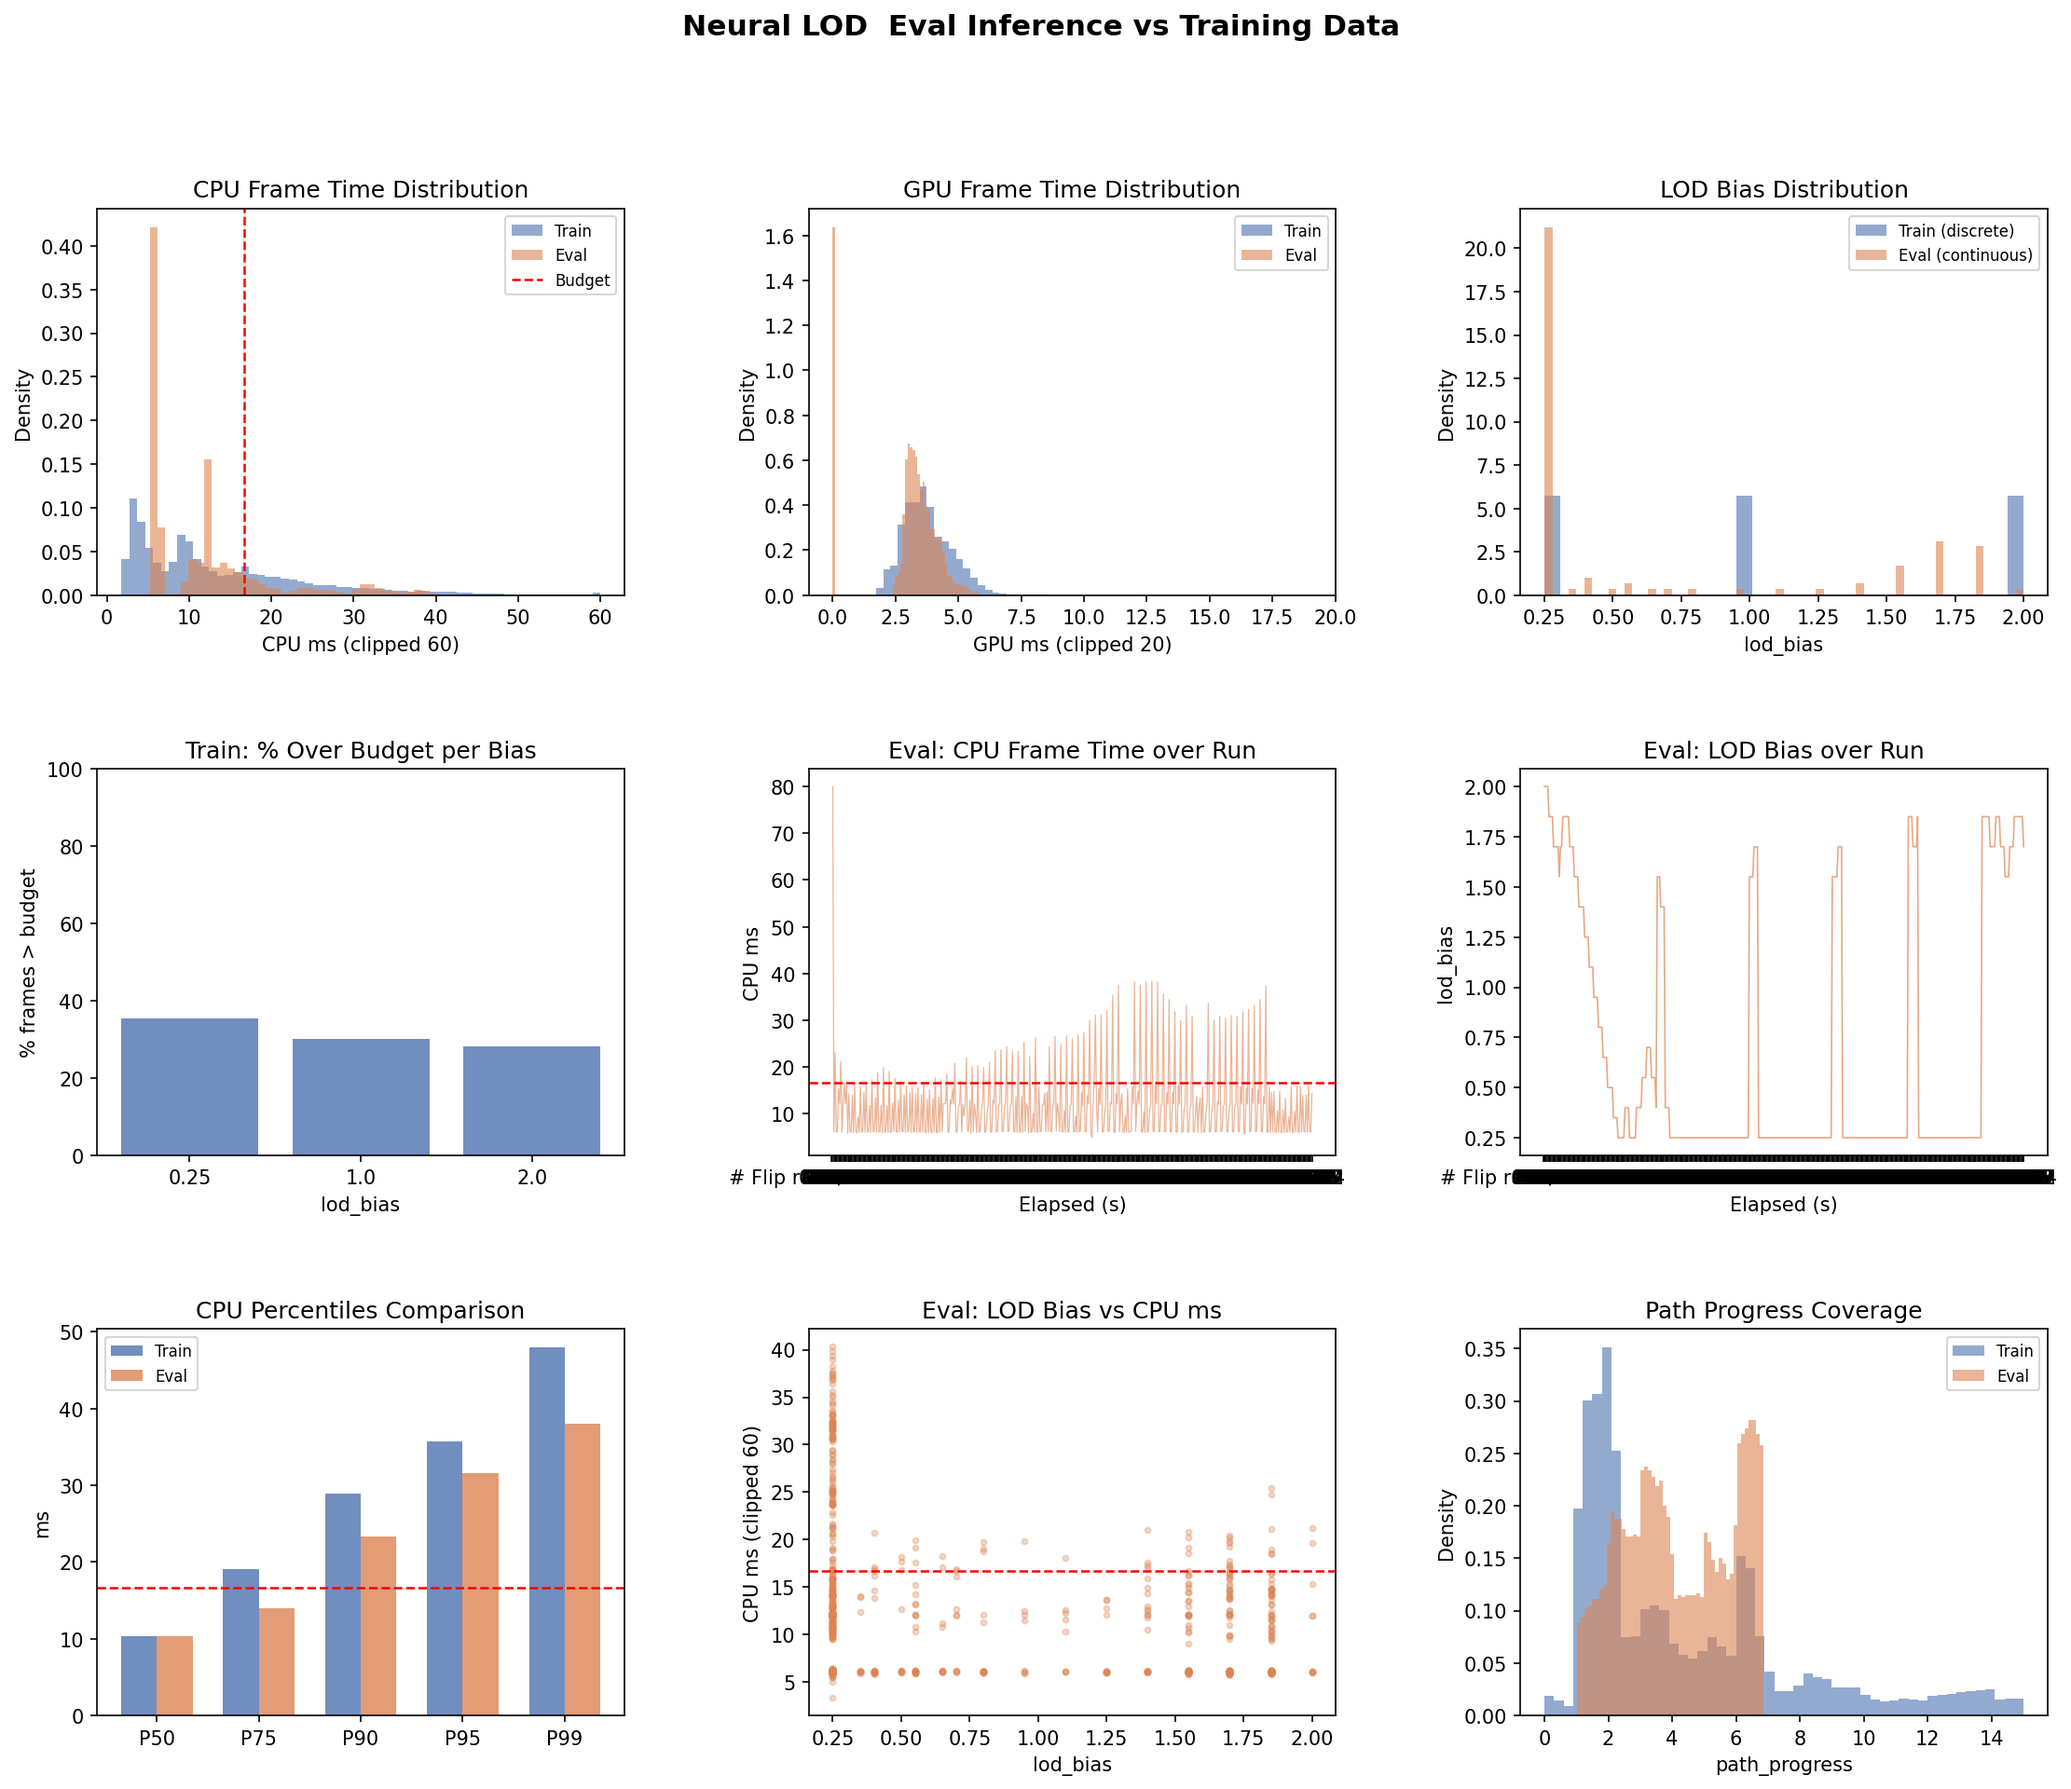
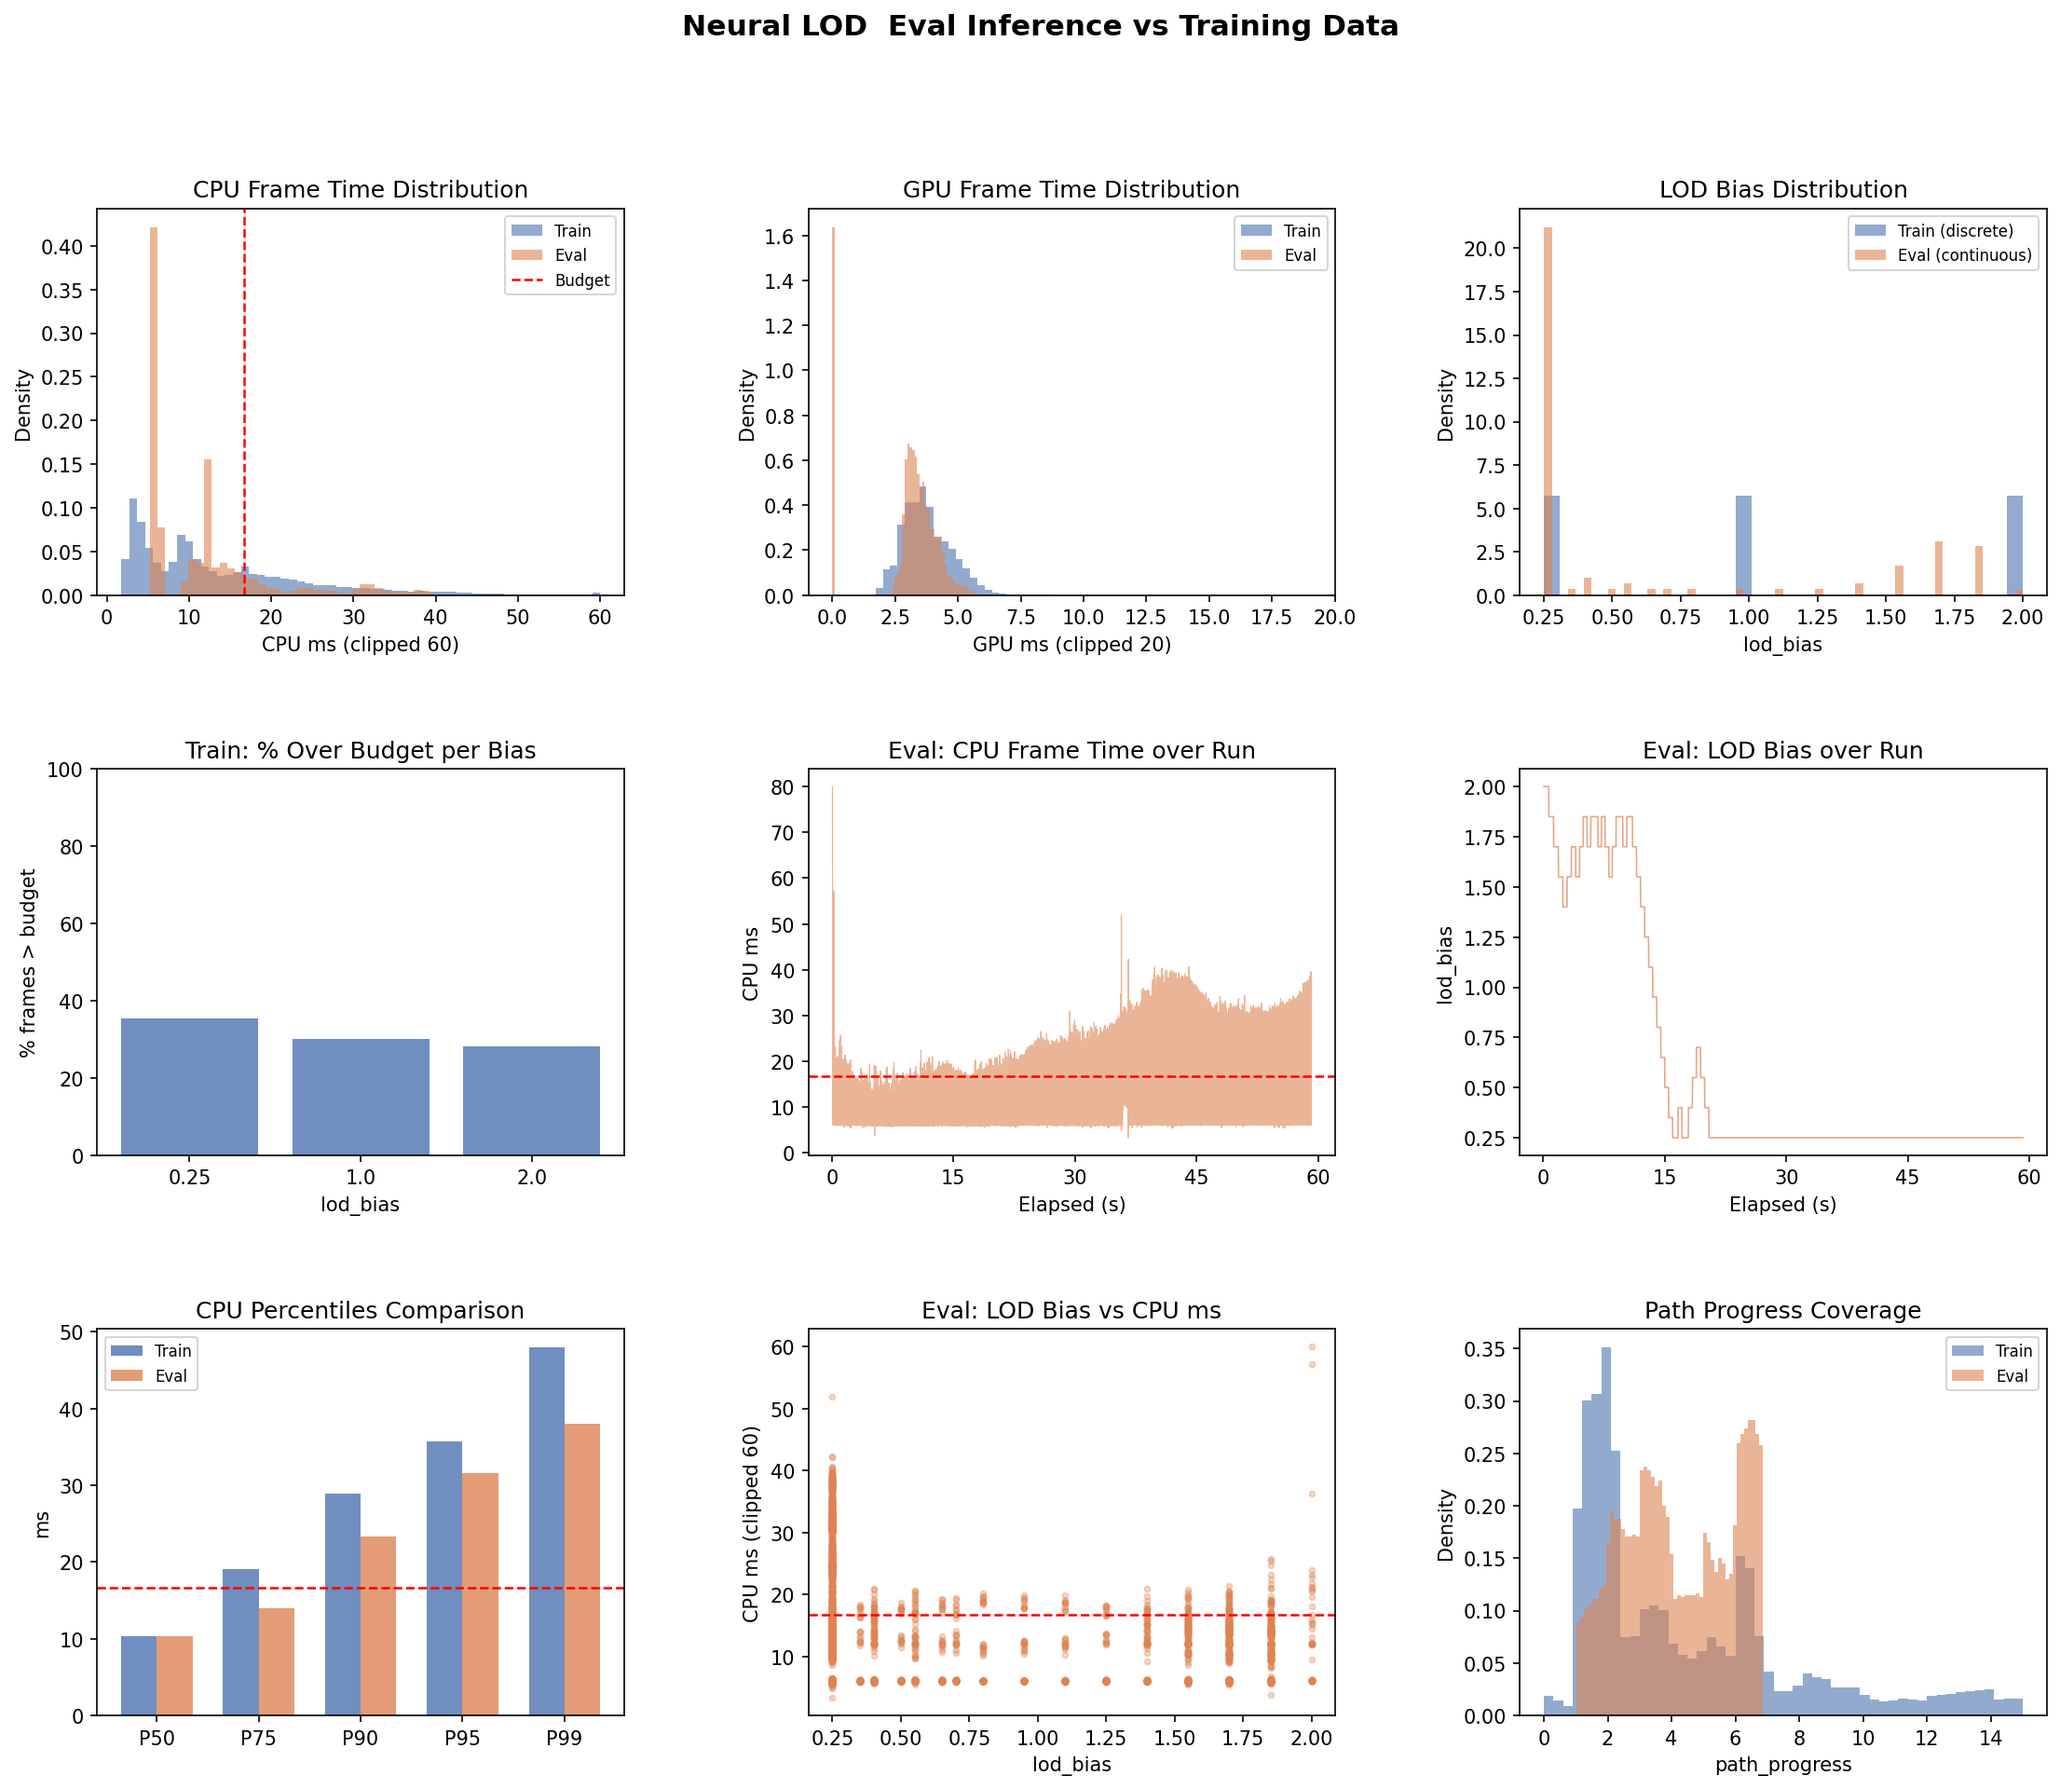
Skip merge when merged file exists; fix eval plots
Skip the merge stage when TRAINING_MERGED already exists during an 'all' run (print a skip message and advise using --stage merge to force). Improve eval CSV handling by ignoring comment lines, coercing elapsed_s to numeric and dropping invalid rows, and printing basic diagnostics. Update plotting: remove downsampling, plot full eval series and scatter, add MaxNLocator for x axes, and tweak saved-plot messaging. Change get_latest_eval_csv to return matches[0] instead of matches[-1]. Updated generated compare plot image.

diff --git a/ml_pipeline/scripts/compare_eval_vs_train.py b/ml_pipeline/scripts/compare_eval_vs_train.py
@@ -7,6 +7,7 @@ import pandas as pd
 import numpy as np
 import matplotlib.pyplot as plt
 import matplotlib.gridspec as gridspec
+from matplotlib.ticker import MaxNLocator
 from config import (
     TRAINING_LABELED, EVAL_COMPARE_FIG,
     TARGET_FRAME_MS, get_latest_eval_csv
@@ -23,7 +24,11 @@ def run(save_individual=False):
     print(f"Using eval file : {eval_path.name}")
 
     train = pd.read_csv(TRAINING_LABELED)
-    eval_ = pd.read_csv(eval_path)
+    eval_ = pd.read_csv(eval_path, comment='#')
+    eval_ = eval_[~eval_["elapsed_s"].astype(str).str.startswith('#')]
+    eval_["elapsed_s"] = pd.to_numeric(eval_["elapsed_s"], errors="coerce")
+    eval_ = eval_.dropna(subset=["elapsed_s"])
+    print(f"Eval rows after cleaning : {len(eval_)}")
 
     print(f"Train rows : {len(train)}")
     print(f"Eval rows  : {len(eval_)}")
@@ -104,25 +109,27 @@ def run(save_individual=False):
     ax5 = fig.add_subplot(gs[1, 1])
     if "elapsed_s" in eval_.columns:
         es = eval_.sort_values("elapsed_s")
-        # Downsample to ~400 points to prevent unreadable visual plotting
-        step = max(1, len(es) // 400)
-        es_sub = es.iloc[::step]
-        ax5.plot(es_sub["elapsed_s"], es_sub["cpu_ms"].clip(0, 80), color=EC, alpha=0.6, linewidth=0.6)
+        print(f"lod_bias after t=15s: {es[es['elapsed_s'] > 15]['lod_bias'].describe()}")
+        print(f"lod_bias unique values after t=15s: {es[es['elapsed_s'] > 15]['lod_bias'].unique()}")
+        print(f"es elapsed_s range: {es['elapsed_s'].min():.1f} -> {es['elapsed_s'].max():.1f}")
+        print(f"es rows: {len(es)}")
+        ax5.plot(es["elapsed_s"].astype(float), es["cpu_ms"].clip(0, 80), color=EC, alpha=0.6, linewidth=0.6)
         ax5.axhline(TARGET_FRAME_MS, color="red", linestyle="--", linewidth=1.2)
         ax5.set_title("Eval: CPU Frame Time over Run")
         ax5.set_xlabel("Elapsed (s)")
         ax5.set_ylabel("CPU ms")
+        ax5.xaxis.set_major_locator(MaxNLocator(nbins=6))
     else:
         ax5.text(0.5, 0.5, "No elapsed_s column", ha="center", va="center")
         ax5.set_title("Eval: CPU over time (N/A)")
 
     ax6 = fig.add_subplot(gs[1, 2])
     if "elapsed_s" in eval_.columns:
-        # Use the same downsampled subset for bias over time
-        ax6.plot(es_sub["elapsed_s"], es_sub["lod_bias"], color=EC, alpha=0.7, linewidth=0.8)
+        ax6.plot(es["elapsed_s"].astype(float), es["lod_bias"], color=EC, alpha=0.7, linewidth=0.8)
         ax6.set_title("Eval: LOD Bias over Run")
         ax6.set_xlabel("Elapsed (s)")
         ax6.set_ylabel("lod_bias")
+        ax6.xaxis.set_major_locator(MaxNLocator(nbins=6))
     else:
         ax6.plot(eval_["lod_bias"].values, color=EC, alpha=0.7, linewidth=0.6)
         ax6.set_title("Eval: LOD Bias (frame index)")
@@ -145,8 +152,7 @@ def run(save_individual=False):
     ax7.legend(fontsize=8)
 
     ax8 = fig.add_subplot(gs[2, 1])
-    sample = eval_.sample(min(1000, len(eval_)), random_state=42)
-    ax8.scatter(sample["lod_bias"], sample["cpu_ms"].clip(0, 60), alpha=0.3, s=8, color=EC)
+    ax8.scatter(eval_["lod_bias"], eval_["cpu_ms"].clip(0, 60), alpha=0.3, s=8, color=EC)
     ax8.axhline(TARGET_FRAME_MS, color="red", linestyle="--", linewidth=1.2)
     ax8.set_title("Eval: LOD Bias vs CPU ms")
     ax8.set_xlabel("lod_bias")
@@ -172,7 +178,7 @@ def run(save_individual=False):
             extent = ax.get_window_extent().transformed(fig.dpi_scale_trans.inverted())
             out_path = EVAL_COMPARE_FIG.parent / f"{EVAL_COMPARE_FIG.stem}_plot_{i+1}.png"
             fig.savefig(out_path, bbox_inches=extent.expanded(1.2, 1.25), dpi=150)
-        print(f"Saved {len(fig.axes)} separated individual plots to {EVAL_COMPARE_FIG.parent}")
+        print(f"Saved {len(fig.axes)} individual plots to {EVAL_COMPARE_FIG.parent}")
 
 if __name__ == "__main__":
     import sys

diff --git a/ml_pipeline/run_pipeline.py b/ml_pipeline/run_pipeline.py
@@ -111,10 +111,16 @@ def main():
     results = {}
 
     if args.stage in ["all", "merge"]:
-        results["merge"] = run_stage(
-            "1. Merge Training Data",
-            merge_training_data.run
-        )
+        if TRAINING_MERGED.exists() and args.stage == "all":
+            section("STAGE: 1. Merge Training Data")
+            print(f"  SKIP {TRAINING_MERGED.name} already exists.")
+            print( "  Run --stage merge explicitly to force remerge.")
+            results["merge"] = True
+        else:
+            results["merge"] = run_stage(
+                "1. Merge Training Data",
+                merge_training_data.run
+            )
 
     if args.stage in ["all", "label"]:
         results["label"] = run_stage(
